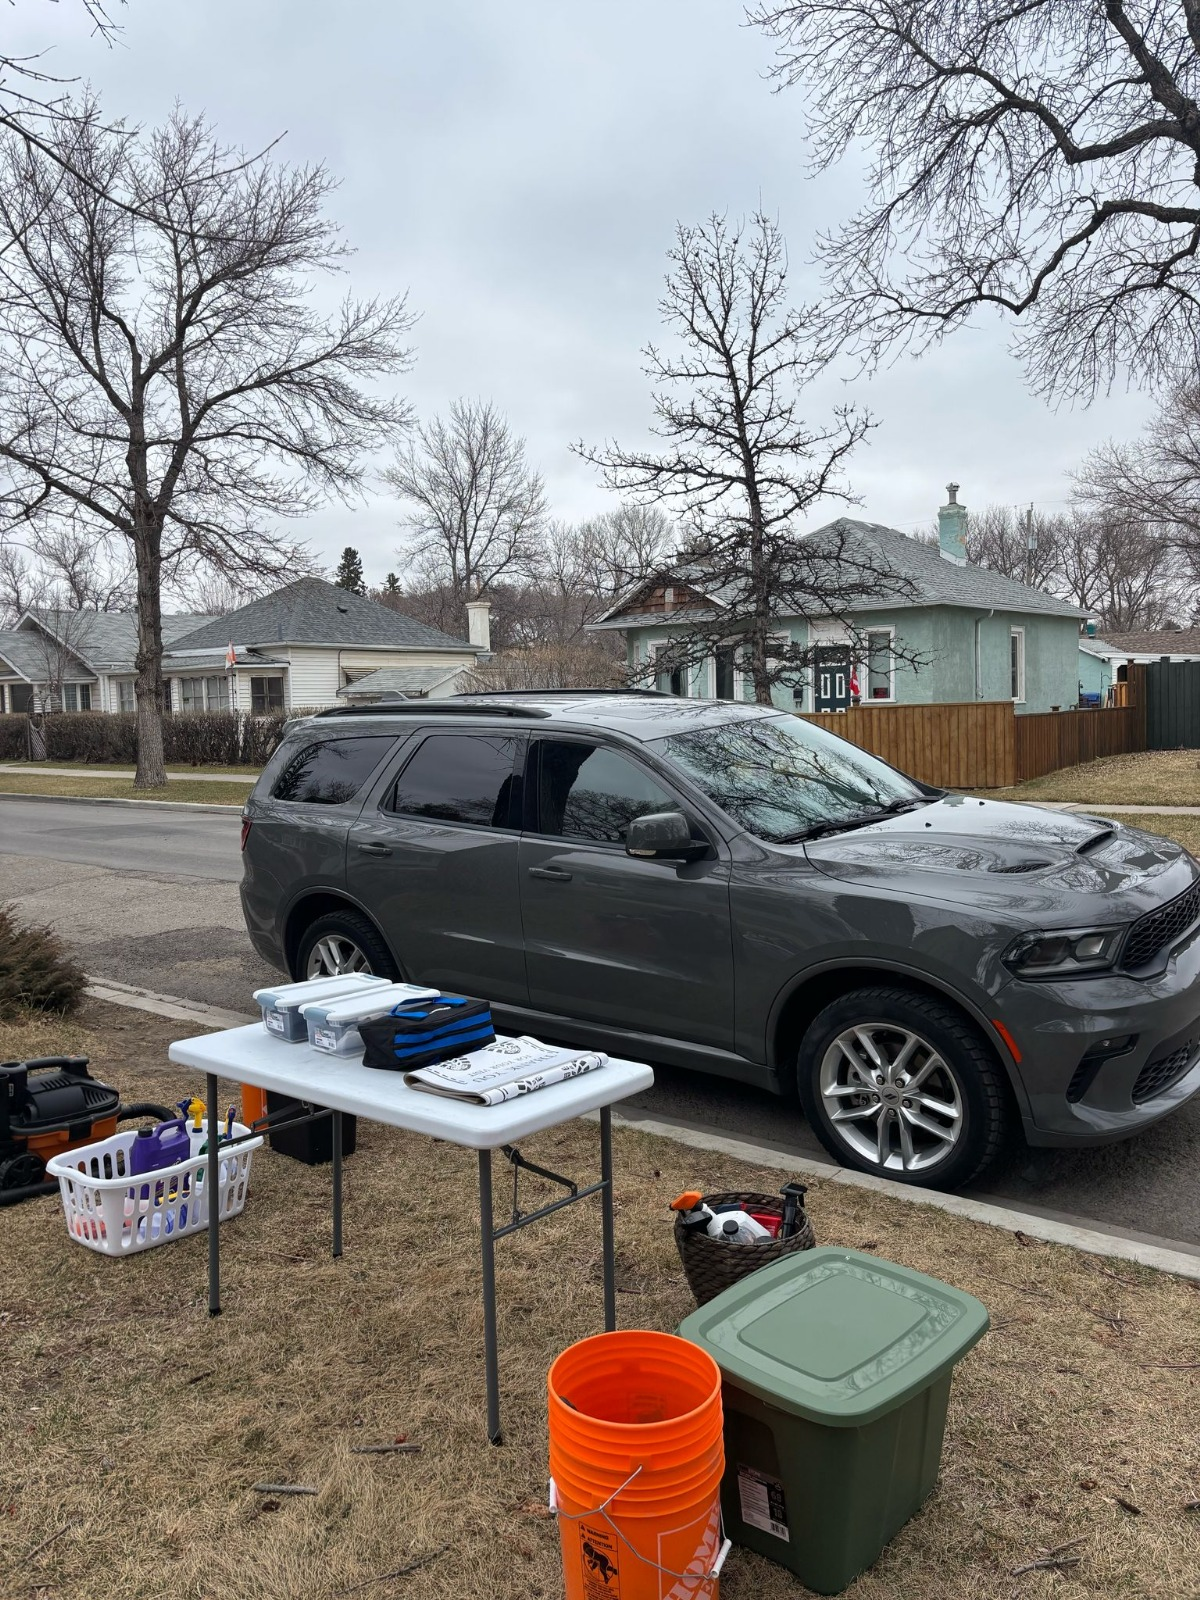
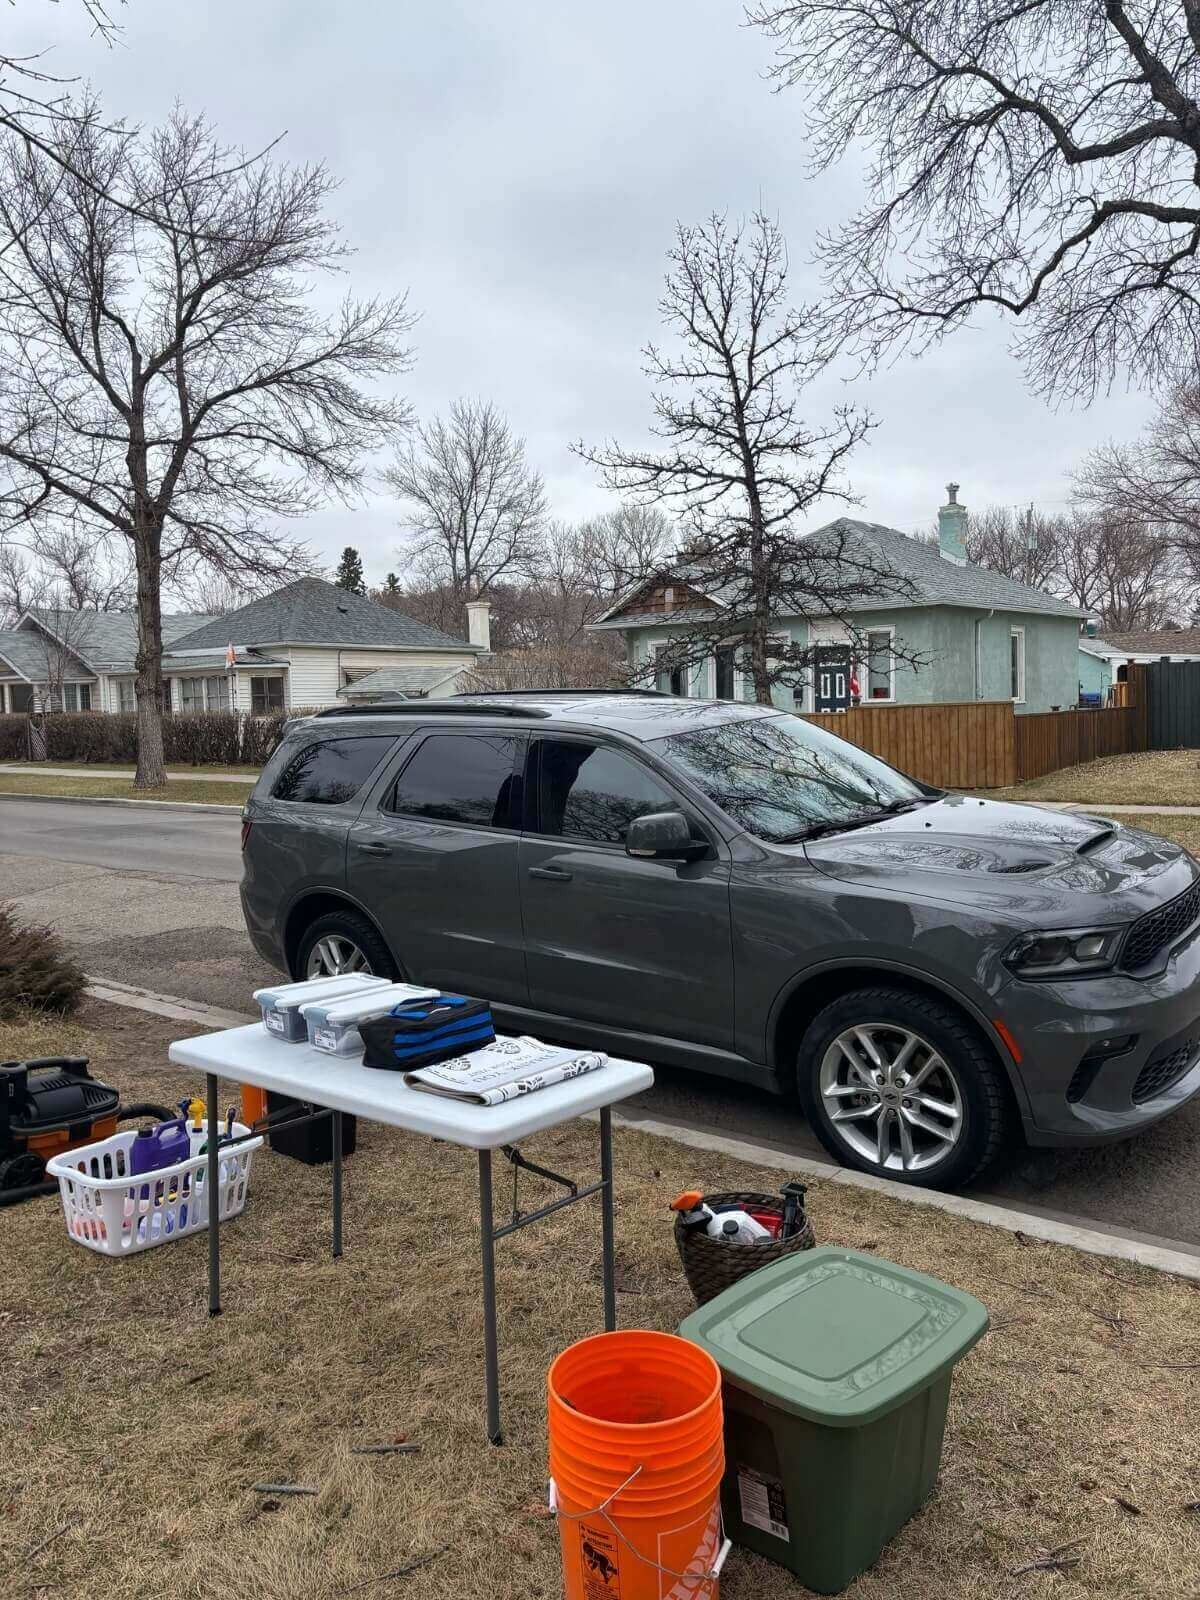
All the images of the website a compressed so they load faster. Some useless images are deleted.

diff --git a/index.html b/index.html
@@ -136,7 +136,7 @@
     </div>
 
     <!-- Hero Section -->
-    <section class="hero" style="background-image: url(img/20250429_1332_Detailing\ Chevy\ Malibu_simple_compose_01jt1gfk20exsr61majphnjx80.png); background-repeat: no-repeat;">
+    <section class="hero" style="background-image: url(img/Hero_section_img.png); background-repeat: no-repeat;">
         <div class="container">
             <div class="hero-content">
                 <!-- <div class="hero-image">
@@ -210,7 +210,7 @@
                 </div>
                 <div class="service-card">
                     <div class="service-img">
-                        <img src="img/image_fx_headlight.jpg" alt="Affordable auto detailing near me">
+                        <img src="img/Headlight_restoration.png" alt="Affordable auto detailing near me">
                     </div>
                     <h3>Headlight restoration</h3>
 
@@ -227,7 +227,7 @@
                 </div>
                 <div class="service-card">
                     <div class="service-img">
-                        <img src="img/image_fx_coating.jpeg" alt="Bridge Auto Detailing Services">
+                        <img src="img/Ceramic_coating.jpg" alt="Bridge Auto Detailing Services">
                     </div>
                     <h3>Ceramic Coating</h3>
 
@@ -410,7 +410,7 @@
                 </div>
                 <div class="service-card">
                     <div class="service-img">
-                        <img src="img/raymond.webp" alt="Car detailing in Raymond">
+                        <img src="img/raymond.jpg" alt="Car detailing in Raymond">
                     </div>
                     <h3>Raymond</h3>
                     <p>No extra charges for home service!</p>

diff --git a/about.html b/about.html
@@ -81,7 +81,7 @@
     </div>
 
     <!-- Page Header -->
-    <section class="page-header" style="background-image: url(img/image_fx_about.jpg); background-repeat: no-repeat; background-size: cover; background-position: center; position: relative; overflow: hidden;">
+    <section class="page-header" style="background-image: url(img/image_fx_about.png); background-repeat: no-repeat; background-size: cover; background-position: center; position: relative; overflow: hidden;">
         <!-- Dark overlay -->
         <div style="position: absolute; inset: 0; background-color: rgba(0, 0, 0, 0.612);"></div>
         <!-- Text container -->
@@ -95,7 +95,7 @@
         <div class="container">
             <div class="about-content">
                 <div class="about-image">
-                    <img src="img/duorango img.jpg" alt="Bridge Auto Detailing Team">
+                    <img src="img/About_story.jpg" alt="Bridge Auto Detailing Team">
                 </div>
                 <div class="about-text">
                     <h2>Our Story</h2>
@@ -113,7 +113,7 @@
                 <div class="about-image" style="display: flex;
                 justify-content: center; 
                 align-items: center;  ">
-                    <img src="img/WhatsApp Image 2025-04-29 at 20.30.56_2667e65c.jpg" style="height: 500px;" alt="Bridge Auto Detailing Team">
+                    <img src="img/About_mission.jpg" style="height: 500px;" alt="Bridge Auto Detailing Team">
                 </div>
                 <div class="about-text">
                 <h2>A Local Business With a Clear Mission</h2>

diff --git a/exterior-detailing.html b/exterior-detailing.html
@@ -133,7 +133,7 @@
         </div>
     </div>
 
-    <section class="page-header" style="background-image: url(img/image_fx_exterior.jpg); background-repeat: no-repeat; background-size: cover; background-position: center; position: relative; overflow: hidden;">
+    <section class="page-header" style="background-image: url(img/image_fx_exterior.png); background-repeat: no-repeat; background-size: cover; background-position: center; position: relative; overflow: hidden;">
         <!-- Dark overlay -->
         <div style="position: absolute; inset: 0; background-color: rgba(0, 0, 0, 0.612);"></div>
         <!-- Text container -->
@@ -147,7 +147,7 @@
         <div class="container">
             <div class="service-hero-content">
                 <div class="service-hero-image">
-                    <img src="img/exterior-detailing-large.jpg" alt="Exterior Detailing">
+                    <img src="img/exterior-detailing-large.png" alt="Exterior Detailing">
                 </div>
                 <div class="service-hero-text">
                     <h2>Premium Exterior Detail ✨</h2>

diff --git a/location.html b/location.html
@@ -85,7 +85,7 @@
 
     <!-- Page Header -->
     <section class="page-header"
-        style="background-image: url(img/image_fx_location.jpg); background-repeat: no-repeat; background-size: cover; background-position: center; position: relative; overflow: hidden;">
+        style="background-image: url(img/image_fx_location.png); background-repeat: no-repeat; background-size: cover; background-position: center; position: relative; overflow: hidden;">
         <!-- Dark overlay -->
         <div style="position: absolute; inset: 0; background-color: rgba(0, 0, 0, 0.612);"></div>
         <!-- Text container -->
@@ -146,7 +146,7 @@
                 </div>
                 <div class="service-card">
                     <div class="service-img">
-                        <img src="img/raymond.webp" alt="Interior Detailing">
+                        <img src="img/raymond.jpg" alt="Interior Detailing">
                     </div>
                     <h3>Raymond</h3>
                     <p>No extra charges for home service!</p>

diff --git a/complete-auto-detailing.html b/complete-auto-detailing.html
@@ -133,7 +133,7 @@
     </div>
 
     <!-- Page Header -->
-    <section class="page-header" style="background-image: url(img/image_fx_complete.jpg); background-repeat: no-repeat; background-size: cover; background-position: center; position: relative; overflow: hidden;">
+    <section class="page-header" style="background-image: url(img/image_fx_complete.png); background-repeat: no-repeat; background-size: cover; background-position: center; position: relative; overflow: hidden;">
         <!-- Dark overlay -->
         <div style="position: absolute; inset: 0; background-color: rgba(0, 0, 0, 0.612);"></div>
         <!-- Text container -->

diff --git a/interior-detailing.html b/interior-detailing.html
@@ -133,7 +133,7 @@
     </div>
 
     <!-- Page Header -->
-    <section class="page-header" style="background-image: url(img/image_fx_interior.jpg); background-repeat: no-repeat; background-size: cover; background-position: center; position: relative; overflow: hidden;">
+    <section class="page-header" style="background-image: url(img/Interior_hero_img.png); background-repeat: no-repeat; background-size: cover; background-position: center; position: relative; overflow: hidden;">
         <!-- Dark overlay -->
         <div style="position: absolute; inset: 0; background-color: rgba(0, 0, 0, 0.612);"></div>
         <!-- Text container -->

diff --git a/contact.html b/contact.html
@@ -81,7 +81,7 @@
     </div>
 
     <!-- Page Header -->
-    <section class="page-header" style="background-image: url(img/image_fx_contact.jpg); background-repeat: no-repeat; background-size: cover; background-position: center; position: relative; overflow: hidden;">
+    <section class="page-header" style="background-image: url(img/image_fx_contact.png); background-repeat: no-repeat; background-size: cover; background-position: center; position: relative; overflow: hidden;">
         <!-- Dark overlay -->
         <div style="position: absolute; inset: 0; background-color: rgba(0, 0, 0, 0.612);"></div>
         <!-- Text container -->

diff --git a/pricing.html b/pricing.html
@@ -85,7 +85,7 @@
 
     <!-- Page Header -->
     <section class="page-header"
-        style="background-image: url(img/image_fx_pricing.jpg); background-repeat: no-repeat; background-size: cover; background-position: center;">
+        style="background-image: url(img/image_fx_pricing.png); background-repeat: no-repeat; background-size: cover; background-position: center;">
         <div class="container">
             <h1>Pricing</h1>
         </div>
